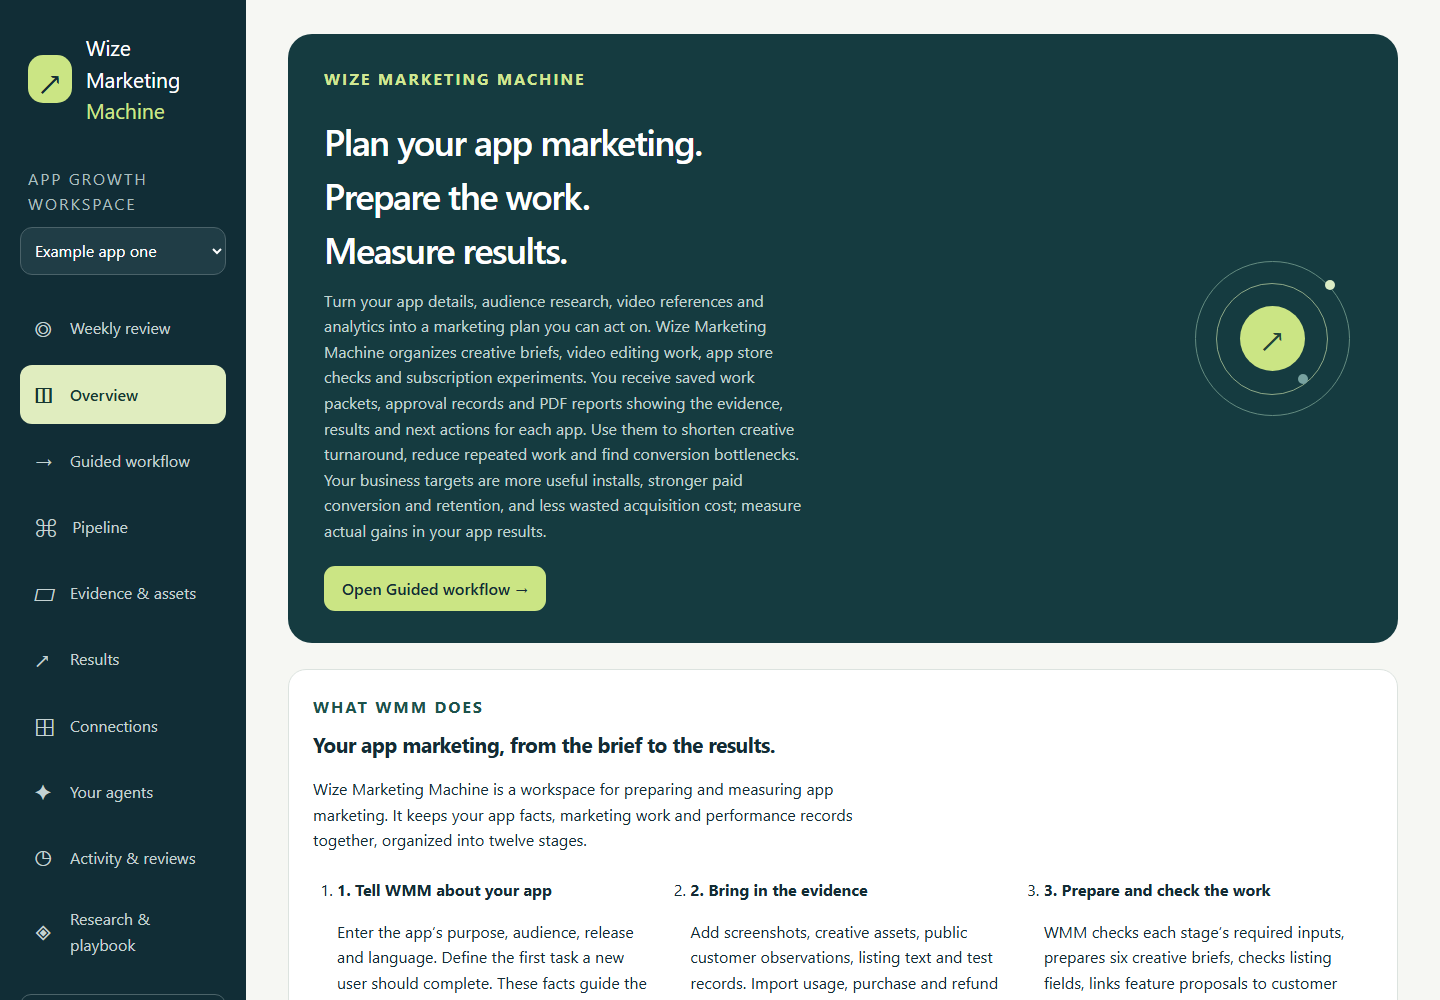
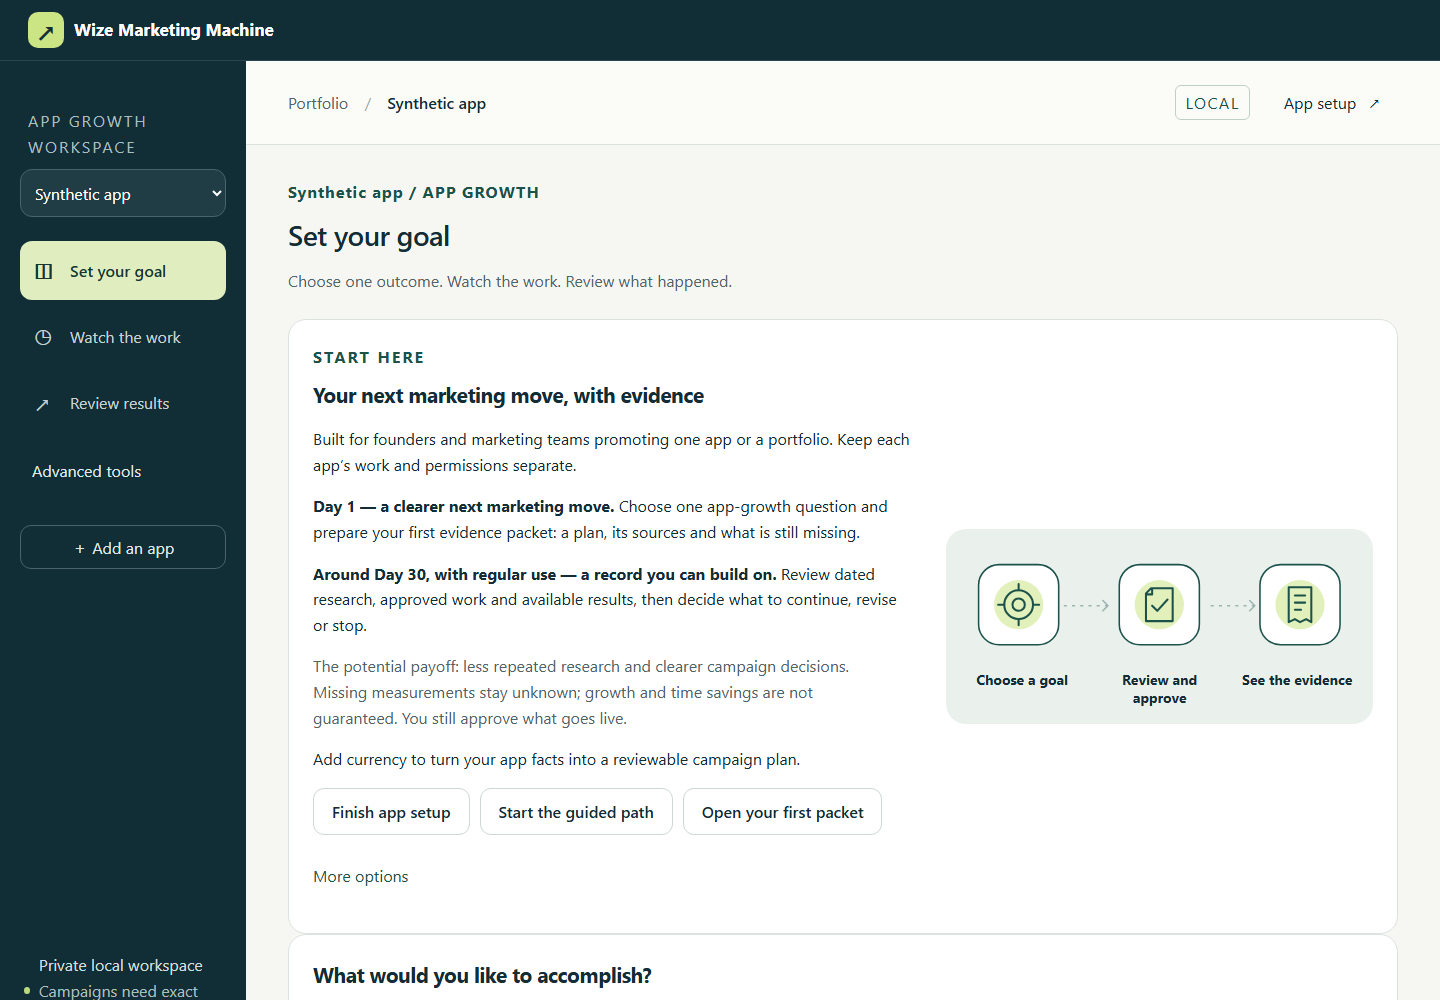
Refresh WMM preview screenshots with first-month guidance

diff --git a/plans/first-month-expectations.md b/plans/first-month-expectations.md
@@ -14,3 +14,4 @@ Architect verdict: PASS
 - [ ] T4 | slice=tools | files=tools/test_goal_journey_browser.py | verify=`python tools/test_goal_journey_browser.py` | Verify the current headings and first-month text in the rendered interface.
 - [ ] T5 | slice=ios | files=ios/WMM/Workflow/WorkflowNavigation.swift | verify=`python tools/check_platform_receipts.py --ci-contract` | Render native copy with semantic text and 680 point reading width.
 - [ ] T6 | slice=tests | files=tests/page_reporting.test.cjs | verify=`node --test tests/page_reporting.test.cjs` | Verify overview expectations preserve source and approval limits.
+- [ ] T7 | slice=docs/images | files=docs/images/goal-to-proof.png,docs/images/overview.png,docs/images/provenance.json | verify=`python tools/check_distribution.py` | Refresh actual synthetic overview screenshots from the candidate UI.
